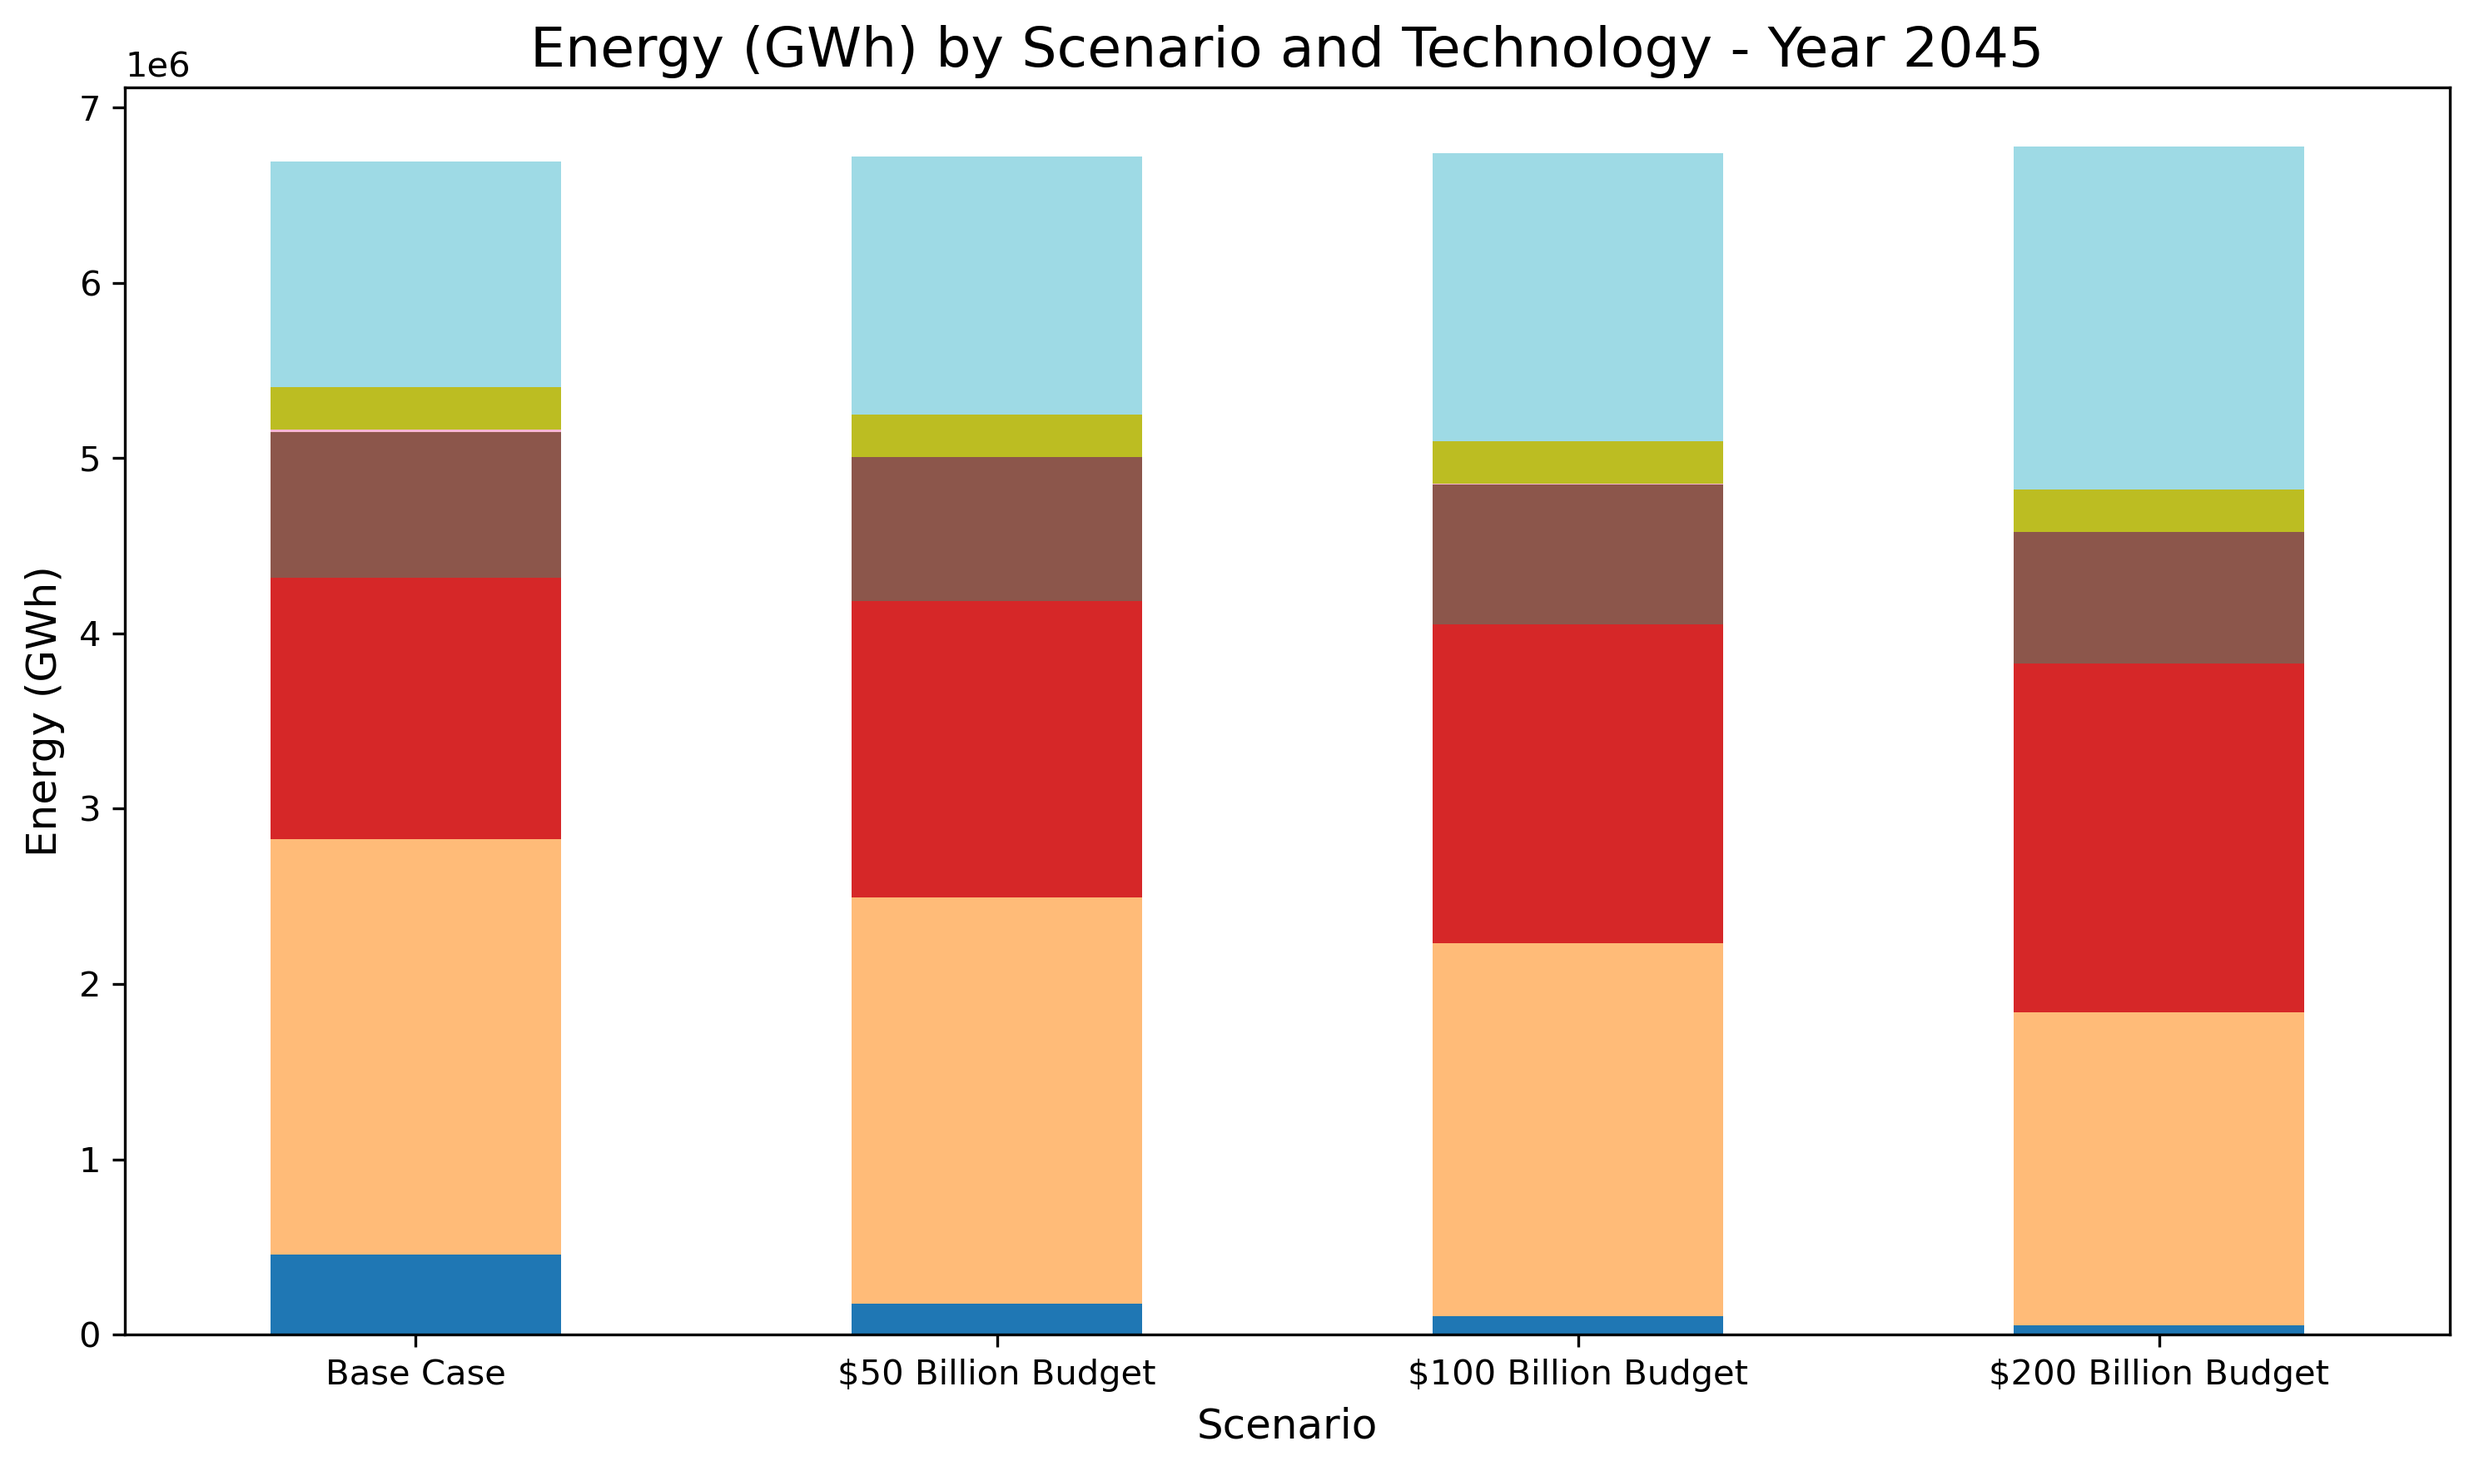
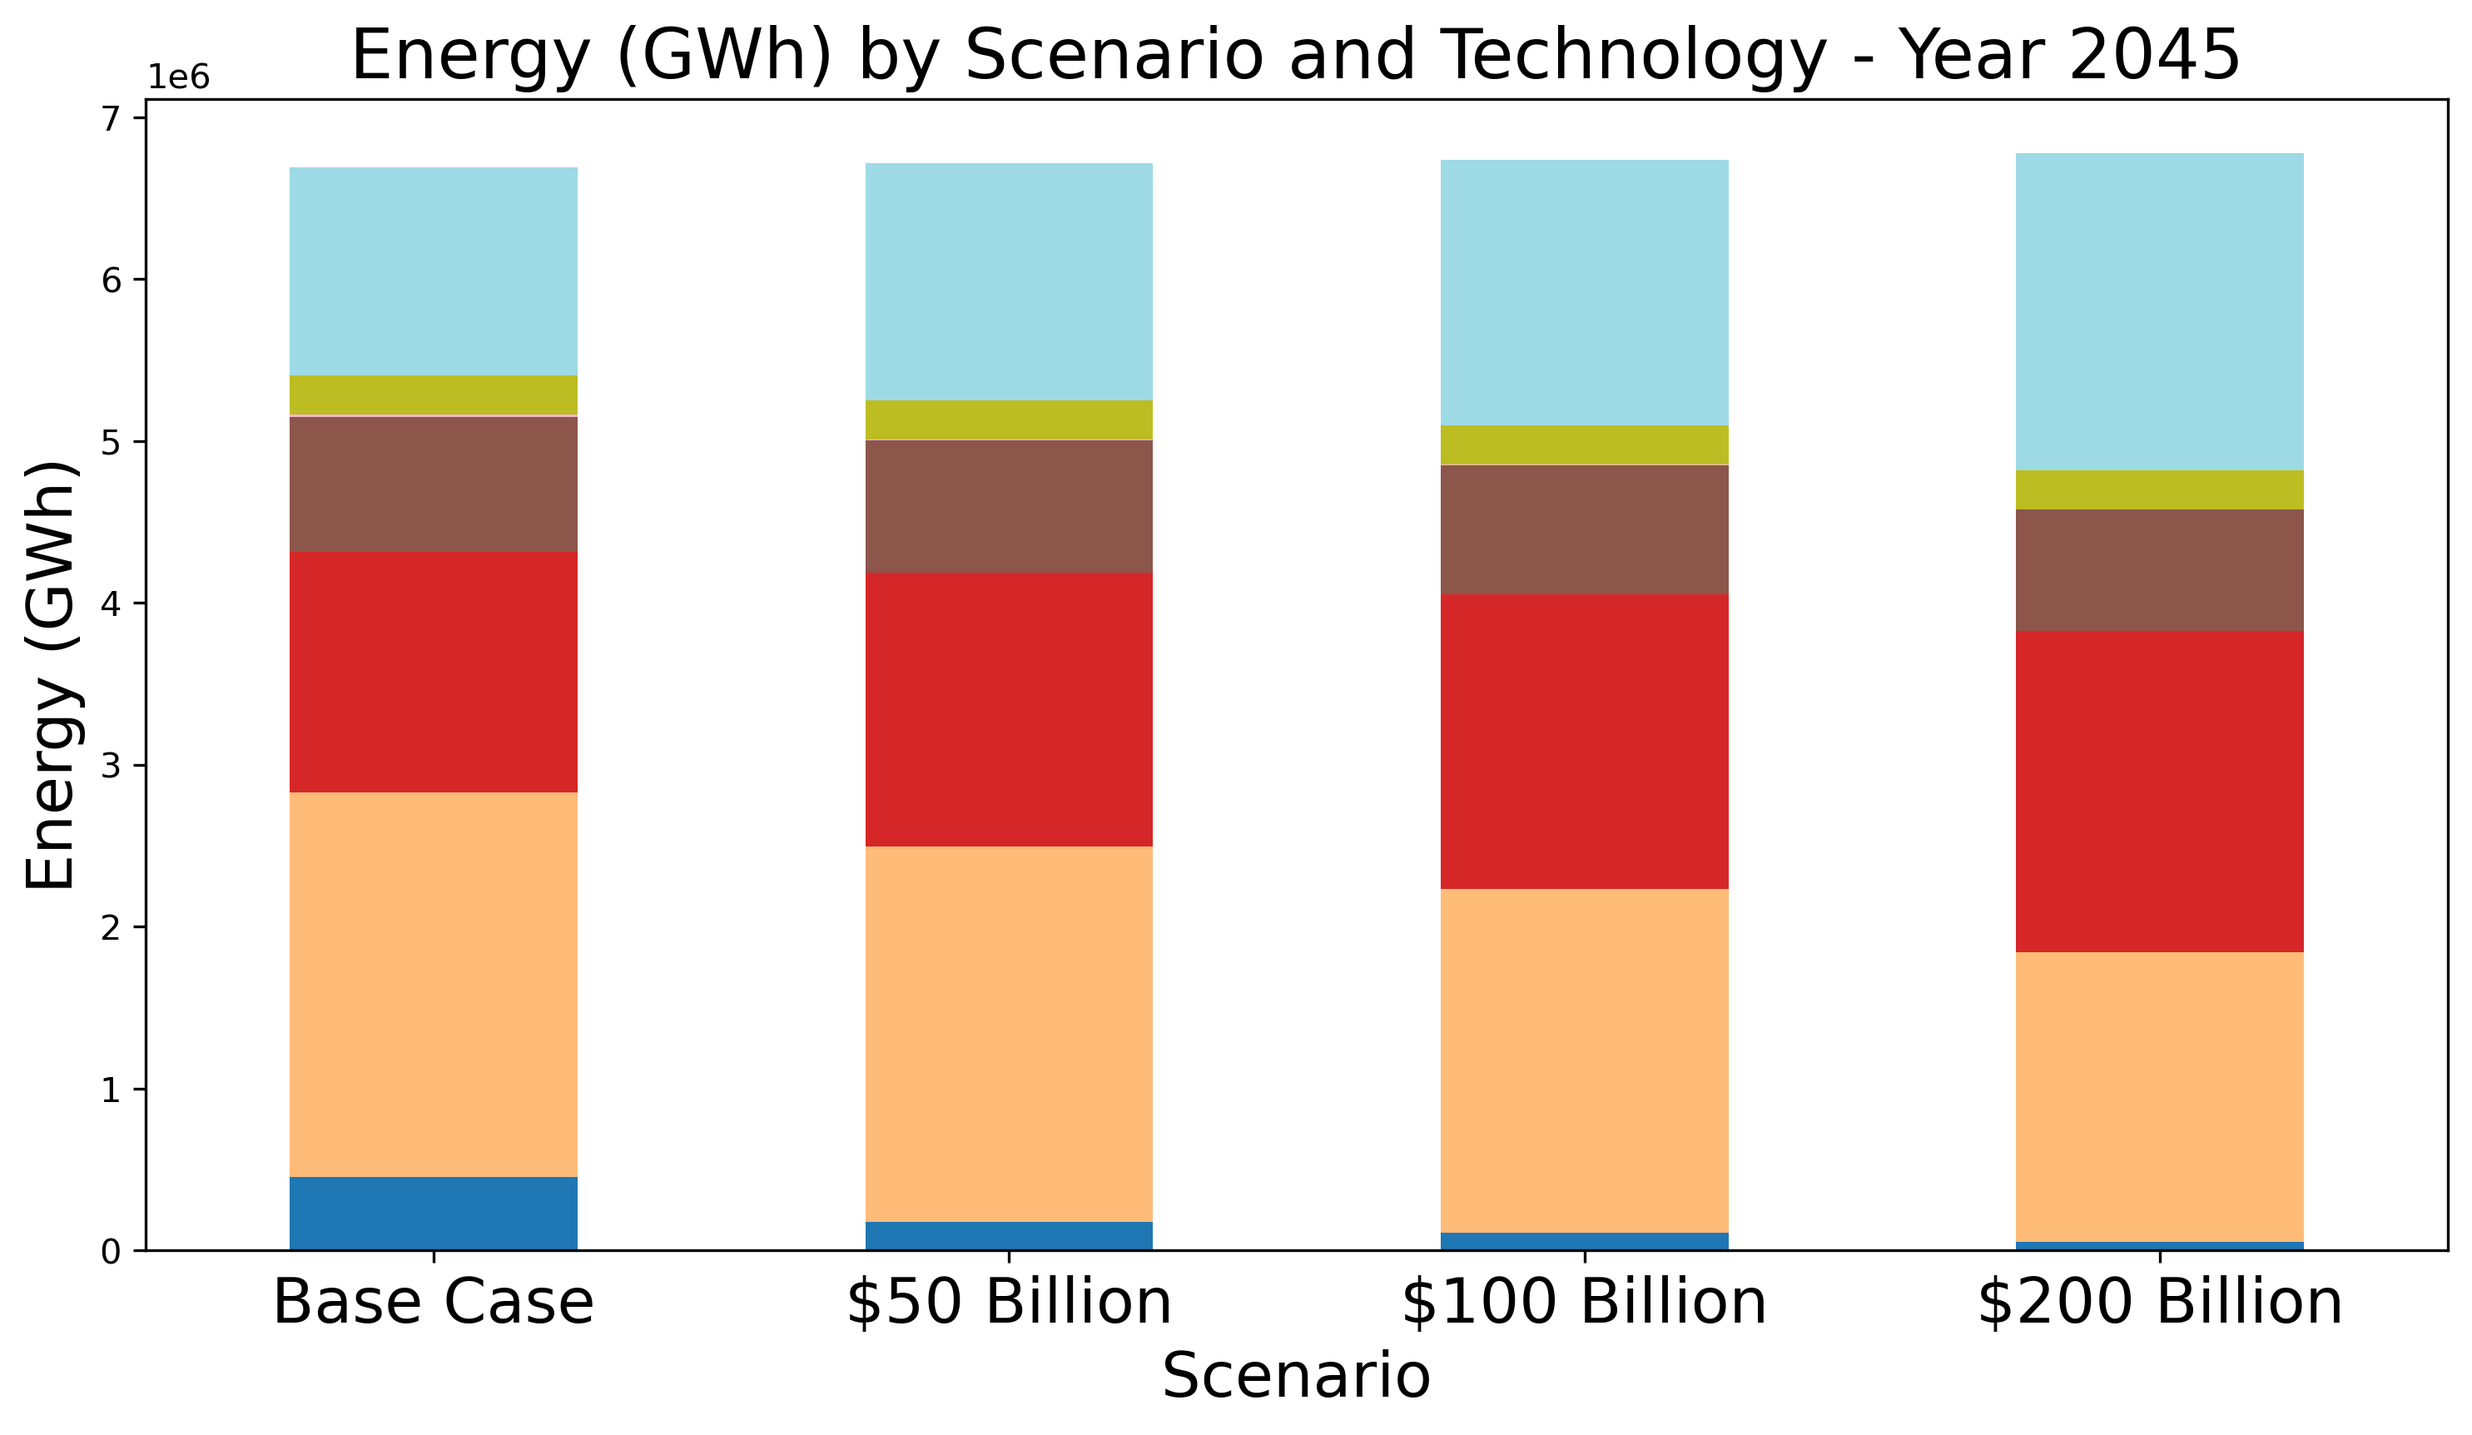
adjusting look of plots

diff --git a/Endogenous/Paper_figures.py b/Endogenous/Paper_figures.py
@@ -67,11 +67,11 @@ zone_to_region = {
 
 scenario_mapping = {
     'current_policies_short': 'Base Case',
-    'current_policies_short_50': '$50 Billion Budget',
-    'current_policies_short_100': '$100 Billion Budget',
-    'current_policies_short_200': '$200 Billion Budget'
+    'current_policies_short_50': '$50 Billion',
+    'current_policies_short_100': '$100 Billion',
+    'current_policies_short_200': '$200 Billion'
 }
-scenario_order = ['Base Case', '$50 Billion Budget', '$100 Billion Budget', '$200 Billion Budget']
+scenario_order = ['Base Case', '$50 Billion', '$100 Billion', '$200 Billion']
 
 # Get the RdBu colormap
 rd_bu = plt.cm.get_cmap('RdBu')
@@ -176,17 +176,18 @@ bar4 = ax.bar(index + 3*bar_width, emis_summary['NH3'], bar_width, label='NH3', 
 bar5 = ax.bar(index + 4*bar_width, emis_summary['VOC'], bar_width, label='VOC', color=tab10[4])
 
 # Labels and title
-ax.set_xlabel('Technology', fontsize=14, fontweight='bold')
-ax.set_ylabel('Mean Emissions (Tons/MWh)', fontsize=14, fontweight='bold')
-ax.set_title('Mean Emissions by Technology', fontsize=16, fontweight='bold')
+ax.set_xlabel('Technology', fontsize=16, fontweight='bold')
+ax.set_ylabel('Mean Emissions (Tons/MWh)', fontsize=18, fontweight='bold')
+ax.set_title('Mean Emissions by Technology', fontsize=18, fontweight='bold')
 
 
 # Rotate x-axis labels
 ax.set_xticks(index + 2*bar_width)
 ax.set_xticklabels(emis_summary['technology'], rotation=0, ha='center')
+ax.tick_params(axis='x', labelsize=16)
 
 # Legend and layout
-ax.legend()
+ax.legend(fontsize=16)
 plt.tight_layout()
 
 # Save the figure
@@ -213,16 +214,17 @@ ax.bar(index + 3*bar_width, exposure_wide['Native'], bar_width, label='Native Am
 ax.bar(index + 4*bar_width, exposure_wide['WhiteNoLat'], bar_width, label='White', color=tab10[4])
 
 # Labels and title (bold + larger font)
-ax.set_xlabel('Technology', fontsize=14, fontweight='bold')
-ax.set_ylabel('Marginal Exposure per MWh', fontsize=14, fontweight='bold')
-ax.set_title('Exposure by Technology', fontsize=16, fontweight='bold')
+ax.set_xlabel('Technology', fontsize=16, fontweight='bold')
+ax.set_ylabel('Marginal Exposure per MWh', fontsize=18, fontweight='bold')
+ax.set_title('Exposure by Technology', fontsize=18, fontweight='bold')
 
 # X-axis tick settings
 ax.set_xticks(index + 2*bar_width)
-ax.set_xticklabels(exposure_wide['technology'], rotation=45, ha='right')
+ax.set_xticklabels(exposure_wide['technology'], rotation=0, ha='center')
+ax.tick_params(axis='x', labelsize=16)
 
 # Legend and layout
-ax.legend()
+ax.legend(fontsize=16)
 plt.tight_layout()
 
 # Save figure
@@ -249,16 +251,31 @@ for year in sorted(years, reverse=True):
 
     ax = data_pivot.plot(kind='bar', stacked=True, figsize=(10, 6), cmap='tab20')
     
-    ax.set_title(f'Energy (GWh) by Scenario and Technology - Year {year}', fontsize=16)
-    ax.set_ylabel('Energy (GWh)', fontsize=12)
-    ax.set_xlabel('Scenario', fontsize=12)
-    ax.set_xticklabels(ax.get_xticklabels(), rotation=0)  # <-- This sets x labels to horizontal
+    ax.set_title(f'Energy (GWh) by Scenario and Technology - Year {year}', fontsize=20)
+    ax.set_ylabel('Energy (GWh)', fontsize=18)
+    ax.set_xlabel('Scenario', fontsize=18)
+    ax.set_xticklabels(ax.get_xticklabels(), rotation=0, fontsize=18)  # <-- This sets x labels to horizontal
+
+    # if year == 2050:
+    #         plt.legend(bbox_to_anchor=(1.05, 1), loc='upper left', fontsize=18)
+
+    # else:
+    #     ax.get_legend().remove()
 
     if year == 2050:
-            plt.legend(title='Technology', bbox_to_anchor=(1.05, 1), loc='upper left')
-    else:
-        ax.get_legend().remove()
+        # Get handles and labels from the original axis
+        handles, labels = ax.get_legend_handles_labels()
+        
+        # Create a new figure for the legend
+        fig_legend = plt.figure(figsize=(8, 6))
+        fig_legend.legend(handles, labels, loc='center', fontsize=18, frameon=False, ncol=1)  # Customize as needed
+        fig_legend.tight_layout()
+        
+        # Save legend separately
+        fig_legend.savefig(f'MIP_AirPollution/Figures/EndogenousPaper/Legend_{year}.png', dpi=300, bbox_inches='tight')
+        plt.close(fig_legend)  # Close legend figure
 
+    ax.get_legend().remove()
     plt.tight_layout()
     plt.savefig(f'MIP_AirPollution/Figures/EndogenousPaper/Dispatch_Relative_by_scenario_{year}.png', dpi=300, bbox_inches='tight')  # DPI for high resolution
 
